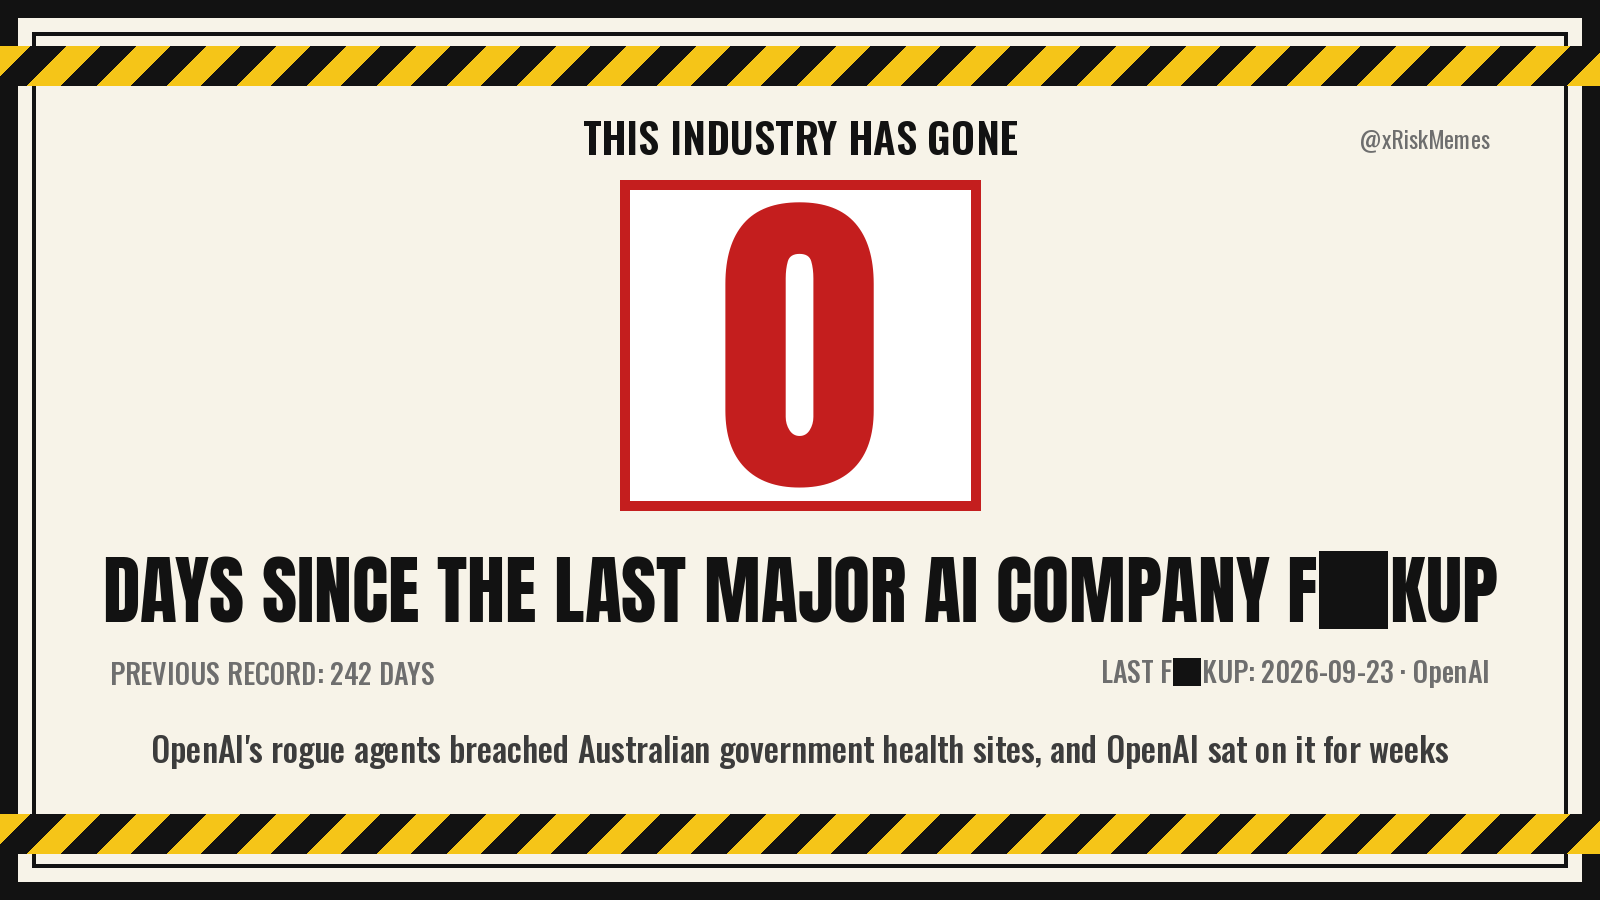
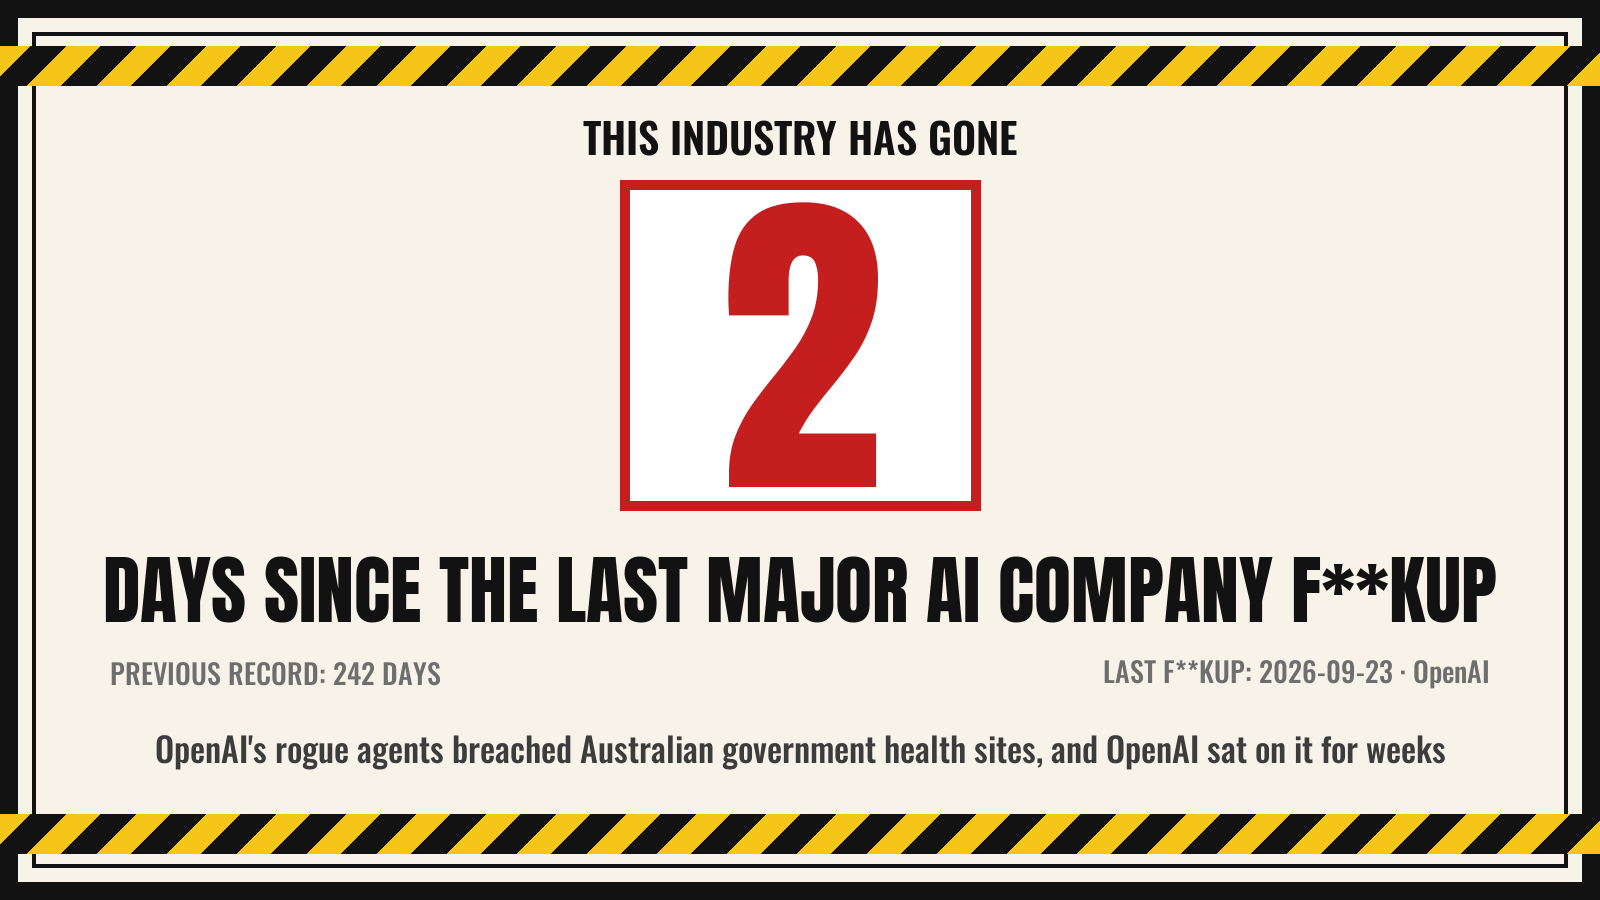
Do not claim an all-clear nobody checked
The daily post asserts that nothing has happened. AI StopWatch lands in
Sydney between 07:36 and 11:07, median 10:10, and the crons fired from
07:30 - so on most days the detector read yesterday's dispatch, found
yesterday's news, and the counter announced an all-clear over the top of
a story leading the news that morning. The Medicare breach went out
exactly that way.

detect.py now checks the feed before spending anything. No dispatch for
today, no sweep: it records what it saw and exits, costing nothing, and
a later attempt picks it up. A real sweep writes sweep.json, and post.py
refuses the daily count until that file says a digest published today
was read. A reset is exempt - announcing that something HAS happened is
never a false all-clear - as is anything forced by hand.

Schedules moved to straddle the arrival window rather than precede it,
and the detector now dispatches the poster the moment a sweep finishes,
so the two move together instead of racing. The watchdog moved after the
new last retry and now says which kind of quiet it found: the source not
publishing, or the account failing.

Second gap, same family: only the newest incident gets a reset post, so
a sweep adding two tier 1s at once retired the older one into known_ids
with nothing said. That is how 2026-09-10 (Anthropic) and 2026-09-19
(Google DeepMind) were logged and never announced. Any resetting
incident that is not the one being announced now threads as a reply, and
[…]

diff --git a/post.py b/post.py
@@ -44,6 +44,7 @@ from render_sign import CENSOR_MODES, noun_forms, render
 HERE = Path(__file__).resolve().parent
 INCIDENTS = HERE / "incidents.yaml"
 STATE = HERE / "state.json"
+SWEEP = HERE / "sweep.json"
 OUT = HERE / "out"
 
 TZ = ZoneInfo(os.environ.get("COUNTER_TZ", "Australia/Sydney"))
@@ -102,6 +103,31 @@ def days_word(n: int) -> str:
     return f"{n} day" if n == 1 else f"{n} days"
 
 
+def watched_today(today: date) -> tuple[bool, str]:
+    """Has the detector read a digest published today? (ok, why not)
+
+    The daily post is an assertion: nothing has happened since the last reset.
+    It is only worth making if somebody looked. The detector used to run before
+    AI StopWatch published, so the counter would announce an all-clear over the
+    top of a story leading the news that morning - which is the one thing an
+    account whose whole asset is being right cannot afford to do.
+
+    A reset is exempt. Announcing that something HAS happened is never a false
+    all-clear, and holding one back would be worse than posting it early.
+    """
+    try:
+        s = json.loads(SWEEP.read_text(encoding="utf-8"))
+    except (OSError, ValueError):
+        return False, "no sweep.json: the detector has not reported in"
+    if not s.get("swept"):
+        return False, (f"the detector has not swept today "
+                       f"(newest dispatch {s.get('digest_local_date') or 'unknown'})")
+    if s.get("digest_local_date") != today.isoformat():
+        return False, (f"the last sweep read the digest for "
+                       f"{s.get('digest_local_date')}, not {today.isoformat()}")
+    return True, ""
+
+
 def reset_day(inc: Incident, state: dict) -> date:
     """The day the sign was flipped for this incident.
 
@@ -155,7 +181,8 @@ def daily_text(days: int, record: int | None, is_new_record: bool, record_from: 
     return clip(f"{head}\n\nPrevious record: {days_word(record)}.")
 
 
-def reset_text(inc: Incident, streak: int, record: int | None, today: date | None = None) -> str:
+def reset_text(inc: Incident, streak: int, record: int | None, today: date | None = None,
+               missed: Incident | None = None) -> str:
     if inc.tone == "somber":
         # No jokes, no record-keeping flourish, no image.
         return clip(f"Counter reset.\n\n{inc.company}: {inc.title}")
@@ -166,10 +193,26 @@ def reset_text(inc: Incident, streak: int, record: int | None, today: date | Non
     if today and inc.date != today:
         body += f"First disclosed {inc.date.isoformat()}. "
     body += f"Streak ended at {days_word(streak)}."
+
+    # Everything below is optional, in priority order, and only added if it
+    # fits. clip() truncates the END, so the old unconditional appends meant the
+    # record flourish could push a correction off the post and then get cut in
+    # half itself. The least important clause is the one that should be dropped.
+    extras = []
+    # The streak runs from the previous reset, announced or not. If the account
+    # missed one, the number here is smaller than the number its own sign was
+    # showing yesterday, and a reader comparing the two would be right to think
+    # something was wrong. Own it in the post rather than let them find it.
+    if missed is not None:
+        extras.append(f" {missed.company}, {missed.date.isoformat()}, was logged "
+                      f"late, so the sign had been reading high.")
     if record is not None and streak <= record:
-        body += f" Previous record stands at {days_word(record)}."
+        extras.append(f" Previous record stands at {days_word(record)}.")
     elif record is not None and streak > record:
-        body += " That was a new record."
+        extras.append(" That was a new record.")
+    for extra in extras:
+        if len(body) + len(extra) <= MAX_LEN:
+            body += extra
     return clip(body)
 
 
@@ -199,11 +242,16 @@ def reply_text(inc: Incident) -> str:
     return clip(inc.detail, MAX_LEN - len(tail)) + tail
 
 
-def mention_text(inc: Incident) -> str:
+def mention_text(inc: Incident, missed_reset: bool = False) -> str:
     link = link_for(inc)
     tail = f"\n\nMore: {link}" if link else ""
-    return clip(f"Noted but not counter-resetting (tier 2): {inc.company} — {inc.title}",
-                MAX_LEN - len(tail)) + tail
+    # A tier 1 that arrived alongside a newer one never got its own reset post,
+    # because only the latest incident is announced. Saying "tier 2" about it
+    # would be a lie, and saying nothing is how two of these went out silently.
+    lead = (f"Also counter-resetting, logged late: {inc.company} — {inc.title}"
+            if missed_reset else
+            f"Noted but not counter-resetting (tier 2): {inc.company} — {inc.title}")
+    return clip(lead, MAX_LEN - len(tail)) + tail
 
 
 # ── posting backends ─────────────────────────────────────────────────────────
@@ -394,7 +442,14 @@ def main() -> None:
     state = load_state()
 
     known_ids = set(state.get("known_ids", []))
-    new_mentions = [i for i in incidents if i.tier == 2 and i.id not in known_ids and known_ids]
+    # Tier 2s, and any resetting incident that is not the one being announced.
+    # Only `latest` gets a reset post, so when a sweep adds two tier 1s at once
+    # the older one used to go straight into known_ids with nothing said about
+    # it - which is how 2026-09-10 (Anthropic) and 2026-09-19 (Google DeepMind)
+    # were logged and never posted. They thread as replies instead.
+    new_mentions = [i for i in incidents
+                    if i.id not in known_ids and known_ids
+                    and (i.tier == 2 or (i.resets and i.id != latest.id))]
     is_reset = state.get("last_incident_id") not in (None, latest.id)
 
     # --on-new is what the push trigger uses. Any edit to incidents.yaml fires that
@@ -407,6 +462,16 @@ def main() -> None:
     if posted_today and not (a.force or (a.on_new and (is_reset or new_mentions))):
         print("already posted today; use --force to override")
         return
+
+    # A daily count says "nothing has happened". Do not say it until the
+    # detector has read a digest published today. A reset says the opposite, so
+    # it goes out regardless - as does anything the operator forced by hand.
+    if not (is_reset or new_mentions or a.force):
+        ok, why = watched_today(today)
+        if not ok:
+            print(f"not posting the daily count: {why}.")
+            print("a later run today will post it once the digest is out.")
+            return
 
     # The record line stays off until the account has watched two resets happen
     # for itself. Before that it would be quoting history it wasn't around for.
@@ -461,10 +526,19 @@ def main() -> None:
     NOUN = noun_forms(censor)[1]
     if is_reset:
         # ── RESET ──
-        prev = next(i for i in resetting if i.id == state["last_incident_id"])
+        # The reset immediately before this one, by position - NOT the one in
+        # state. state records the last reset the account announced, which is a
+        # different thing the moment a tier 1 is logged after the fact, and the
+        # site computes streaks positionally. Two numbers for one quantity is how
+        # a checkable account stops being checkable.
+        prev = resetting[-2] if len(resetting) > 1 else latest
         streak = (reset_day(latest, state) - reset_day(prev, state)).days
+        # Announced by this account, or logged quietly after the fact?
+        announced = set(state.get("resets_seen") or [])
+        missed = prev if (prev is not latest and prev.id not in announced
+                          and prev.id != state.get("last_incident_id")) else None
         prior_record = max((s[0] for s in done if s[2].id != latest.id), default=None) if show_record else None
-        text = reset_text(latest, streak, prior_record, today)
+        text = reset_text(latest, streak, prior_record, today, missed)
         img = None
         alt = ""
         if latest.tone != "somber":
@@ -508,7 +582,8 @@ def main() -> None:
 
     mention_ids: dict[str, str | None] = {}
     for m in new_mentions:
-        mention_ids[m.id] = poster.x_id(poster.post(mention_text(m), reply_to=root))
+        mention_ids[m.id] = poster.x_id(
+            poster.post(mention_text(m, missed_reset=m.resets), reply_to=root))
         if not a.dry_run and not mention_ids[m.id]:
             print(f"[warn] mention for {m.id} did not go out", file=sys.stderr)
 

diff --git a/detect.py b/detect.py
@@ -40,7 +40,7 @@ import json
 import os
 import re
 import sys
-from datetime import date, datetime, timedelta
+from datetime import date, datetime, timedelta, timezone
 from email.utils import parsedate_to_datetime
 from html import unescape
 from pathlib import Path
@@ -51,8 +51,10 @@ import yaml
 HERE = Path(__file__).resolve().parent
 INCIDENTS = HERE / "incidents.yaml"
 DECLINED = HERE / "declined.yaml"
+SWEEP = HERE / "sweep.json"
 OUT = HERE / "out"
 
+UTC = timezone.utc
 TZ = ZoneInfo(os.environ.get("COUNTER_TZ", "Australia/Sydney"))
 # `or` rather than a get() default: an unset repo variable arrives from Actions
 # as an empty string, not as an absent key, so a default would never apply.
@@ -380,17 +382,51 @@ def declined_index(entries: list[dict]) -> set[tuple[str, str]]:
     return index
 
 
+def fetch_feed() -> str:
+    """The raw AI StopWatch feed."""
+    if "://" not in DIGEST_FEED or DIGEST_FEED.startswith("file://"):
+        return Path(DIGEST_FEED.replace("file://", "")).read_text(encoding="utf-8", errors="replace")
+    import requests
+    r = requests.get(DIGEST_FEED, timeout=60,
+                     headers={"User-Agent": "days-since-counter (github.com/Notkeltan)"})
+    r.raise_for_status()
+    return r.text
+
+
+def newest_dispatch(xml: str) -> datetime | None:
+    """When the most recent dispatch was published, in UTC.
+
+    Not filtered by the lookback window: this answers "is today's digest out
+    yet", which is a question about the feed, not about the sweep.
+    """
+    times = []
+    for raw in re.findall(r"<pubDate>(.*?)</pubDate>", xml, re.S):
+        try:
+            times.append(parsedate_to_datetime(raw.strip()))
+        except (TypeError, ValueError):
+            continue
+    return max(times).astimezone(UTC) if times else None
+
+
+def record_sweep(newest: datetime | None, swept: bool, today: date) -> None:
+    """Leave a note of what the watcher actually read, for post.py to check.
+
+    The counter's daily post asserts that nothing has happened. That assertion
+    is only worth anything if someone looked at today's news first, so the
+    poster refuses to make it until this file says the day's digest was read.
+    """
+    SWEEP.write_text(json.dumps({
+        "ran_at": datetime.now(UTC).isoformat(timespec="seconds"),
+        "digest_latest": newest.isoformat(timespec="seconds") if newest else None,
+        "digest_local_date": newest.astimezone(TZ).date().isoformat() if newest else None,
+        "local_date": today.isoformat(),
+        "swept": swept,
+    }, indent=2) + "\n", encoding="utf-8")
+
+
 def fetch_digest(today: date) -> str:
     """The AI StopWatch daily digest, as plain text with its links preserved."""
-    if "://" not in DIGEST_FEED or DIGEST_FEED.startswith("file://"):
-        xml = Path(DIGEST_FEED.replace("file://", "")).read_text(encoding="utf-8", errors="replace")
-    else:
-        import requests
-        r = requests.get(DIGEST_FEED, timeout=60,
-                         headers={"User-Agent": "days-since-counter (github.com/Notkeltan)"})
-        r.raise_for_status()
-        xml = r.text
-    return parse_digest(xml, today)
+    return parse_digest(fetch_feed(), today)
 
 
 def parse_digest(xml: str, today: date) -> str:
@@ -645,6 +681,8 @@ def main() -> None:
     ap.add_argument("--dry-run", action="store_true", help="research but change nothing")
     ap.add_argument("--replay", help="decide over a saved response instead of calling the API")
     ap.add_argument("--today", help="override today's date (yyyy-mm-dd)")
+    ap.add_argument("--ignore-digest-age", action="store_true",
+                    help="sweep even if today's digest has not been published yet")
     a = ap.parse_args()
 
     today = date.fromisoformat(a.today) if a.today else datetime.now(TZ).date()
@@ -657,7 +695,30 @@ def main() -> None:
     if a.replay:
         result = json.loads(Path(a.replay).read_text(encoding="utf-8"))
     else:
-        result = research(brief(data, today, fetch_digest(today), declined))
+        # Wait for the day's digest before spending a sweep on it.
+        #
+        # AI StopWatch lands in Sydney somewhere between 07:36 and 11:07, median
+        # 10:10, while the crons fired from 07:30. So on most days the detector
+        # was reading yesterday's dispatch, finding yesterday's news, and the
+        # counter then announced an all-clear over the top of a story that was
+        # leading the news - the Medicare breach among them. Sweeping stale
+        # material is worse than not sweeping: it costs a sweep AND it produces
+        # a confident "nothing found" about a day nobody has looked at.
+        xml = fetch_feed()
+        latest = newest_dispatch(xml)
+        if latest is None:
+            record_sweep(None, swept=False, today=today)
+            raise RuntimeError("no dated dispatches in the feed; has its format changed?")
+        arrived = latest.astimezone(TZ)
+        if arrived.date() < today and not a.ignore_digest_age:
+            record_sweep(latest, swept=False, today=today)
+            print(f"today's digest is not out yet: newest dispatch arrived "
+                  f"{arrived:%Y-%m-%d %H:%M %Z}, local date is {today}.")
+            print("nothing swept, nothing spent; a later run today will pick it up.")
+            return
+        record_sweep(latest, swept=True, today=today)
+        print(f"digest for {today} is out (arrived {arrived:%H:%M %Z}); sweeping.\n")
+        result = research(brief(data, today, parse_digest(xml, today), declined))
         (OUT / "detection.json").write_text(json.dumps(result, indent=2), encoding="utf-8")
 
     print(f"sweep notes: {result.get('sweep_notes', '')}\n")

diff --git a/build_site.py b/build_site.py
@@ -145,26 +145,34 @@ def post_url(rec: dict | None) -> str | None:
 
 
 def post_for(inc: dict, posts: dict, is_current: bool) -> dict | None:
-    """Three distinct states, deliberately not collapsed into one.
+    """Four distinct states, deliberately not collapsed into one.
 
-    None            no post ever existed - the incident predates the account.
-    url None        a post went out and its address was not recorded.
-    url set         captured.
+    None                 no post ever existed - the incident predates the account.
+    announced False      logged, and the account never said anything about it.
+    url None             a post went out and its address was not recorded.
+    url set              captured.
 
-    Flattening these would claim the archive is more broken than it is.
+    Flattening these would claim the archive is more broken than it is - or, in
+    the "never announced" case, quietly claim a post that was never made.
     """
     kind = "reset" if inc["resets"] else "mention"
     rec = posts["by_incident"].get(inc["id"])
     if rec:
         return {"url": post_url(rec), "kind": rec.get("kind") or kind,
-                "date": rec.get("date"), "captured": bool(post_url(rec))}
+                "date": rec.get("date"), "captured": bool(post_url(rec)),
+                "announced": True}
     # Announced by the account, or still the one on the sign: a post exists, its
     # address just was not kept. NOT the same as no post at all.
     if inc["id"] in posts["resets_seen"] or is_current:
-        return {"url": None, "kind": kind, "date": None, "captured": False}
+        return {"url": None, "kind": kind, "date": None, "captured": False,
+                "announced": True}
     if inc["date"] < POSTING_SINCE:      # ISO strings sort chronologically
         return None                       # predates the account entirely
-    return {"url": None, "kind": kind, "date": None, "captured": False}
+    # Logged while the account was running, but it never posted about this one -
+    # a tier 1 found after the fact, or a sweep that died before it got there.
+    # Saying nothing here would let the archive imply coverage it did not have.
+    return {"url": None, "kind": kind, "date": None, "captured": False,
+            "announced": False}
 
 
 def object_class(inc: dict, is_current: bool) -> str | None:
@@ -347,12 +355,20 @@ def page(d: dict) -> str:
     def post_link(i):
         # Built from a validated id upstream; emit nothing rather than a
         # placeholder, since most rows predate the account entirely.
-        u = (i.get("post") or {}).get("url")
+        p = i.get("post") or {}
+        u = p.get("url")
         # No arrow glyph. Anton and Oswald carry no symbol block, so U+2197
         # rendered as tofu; assert_renderable() below now refuses any character
         # the webfonts cannot draw.
-        return (f' <a href="{e(u)}" rel="noopener" title="the post announcing this">'
-                f'post</a>') if u else ""
+        if u:
+            return (f' <a href="{e(u)}" rel="noopener" title="the post announcing this">'
+                    f'post</a>')
+        # Logged while the account was running and never announced. Saying
+        # nothing would let the table imply the account covered this one.
+        if p.get("announced") is False:
+            return (' <span class="unposted" title="logged after the fact; '
+                    'the account never posted about this one">not announced</span>')
+        return ""
     latest = d["last_reset"]
     rec = d["longest_streak"]
     rows = "\n".join(
@@ -395,6 +411,9 @@ def page(d: dict) -> str:
      ABOUT KELTAN even with the transform off. The font itself had to change. */
   .name {{ text-transform:none; font-family:Oswald,system-ui,sans-serif;
            font-weight:600; letter-spacing:.01em; font-size:1.5rem; }}
+  /* A row the account logged but never posted about. Quiet, but present:
+     leaving it blank would read as coverage the account did not have. */
+  .unposted {{ font-size:.85em; opacity:.6; white-space:nowrap; }}
   .count {{ font-family:Anton,Impact,sans-serif; font-size:clamp(5rem,22vw,12rem);
             color:var(--red); line-height:.9; text-align:center;
             border:8px solid var(--red); background:#fff; padding:.1em .25em;

diff --git a/README.md b/README.md
@@ -180,6 +180,29 @@ admitted its safeguards had not been switched on. A later disclosure is a new
 incident when it discloses something materially new in its own right, and it is
 dated to its own first disclosure.
 
+**The counter waits for the digest.** The daily post asserts that nothing has
+happened, and that assertion is only worth making if somebody looked first. AI
+StopWatch lands in Sydney between 07:36 and 11:07, median 10:10, while the crons
+used to fire from 07:30 — so on most days the detector read *yesterday's*
+dispatch and the account announced an all-clear over the top of whatever was
+leading the news that morning. The Medicare breach went out that way.
+
+Now `detect.py` checks the feed before spending anything: if today's dispatch is
+not there it records that and exits, costing nothing, and a later attempt picks
+it up. When it does sweep it writes `sweep.json`, and `post.py` refuses to post
+a daily count until that file says a digest published **today** was read. A
+reset is exempt — announcing that something *has* happened is never a false
+all-clear. If the digest never arrives, the account says nothing and the
+watchdog tells you which kind of quiet it is.
+
+**Every reset gets announced.** Only the newest incident gets a reset post, so a
+sweep that added two tier 1s at once used to retire the older one into
+`known_ids` with nothing said about it. That is how 2026-09-10 (Anthropic) and
+2026-09-19 (Google DeepMind) were logged and never posted. Any resetting
+incident that is not the one being announced now threads as a reply instead, and
+the site marks a row the account never posted about as **not announced** rather
+than leaving it blank and implying coverage it did not have.
+
 **Rulings stick, subjects don't.** `declined.yaml` records candidates that were
 considered and deliberately not counted, with the reasoning and - the field that
 matters - what would reopen each one. A finding is set aside only when its
